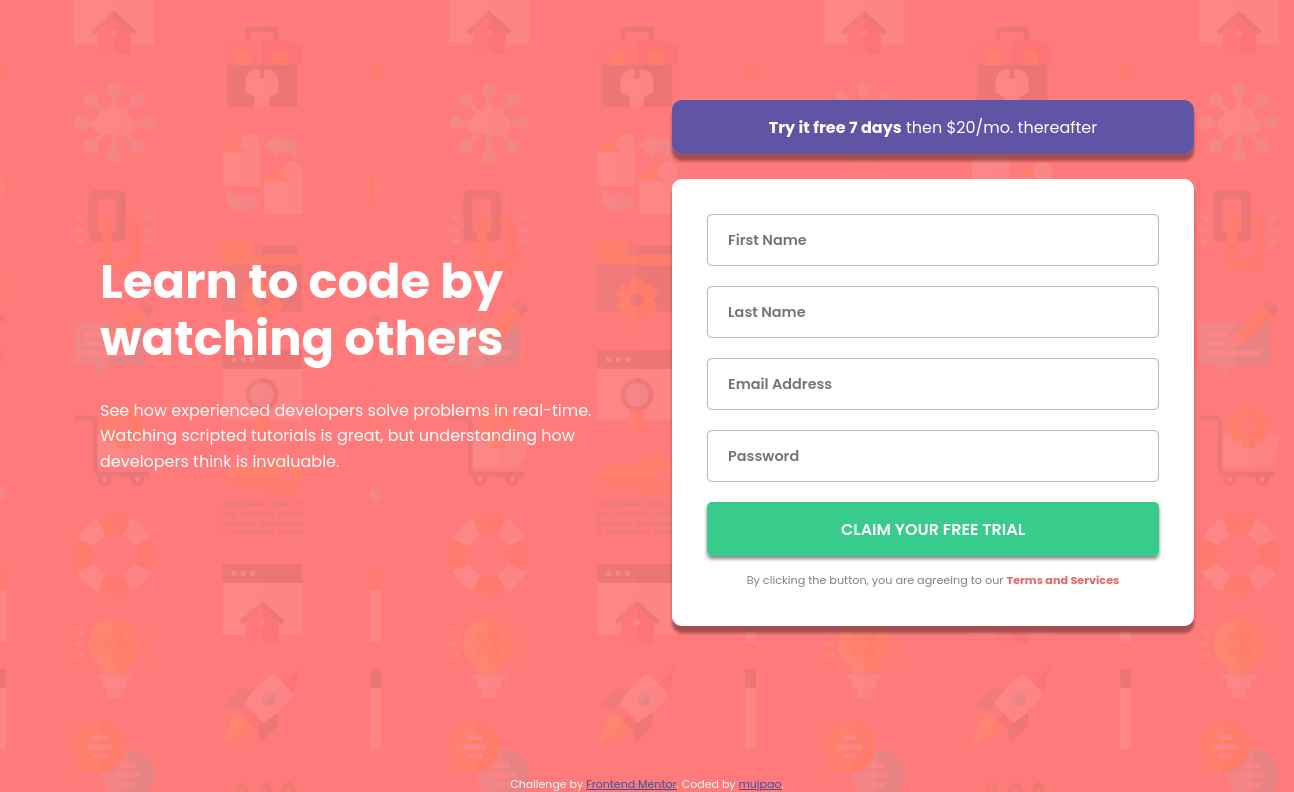
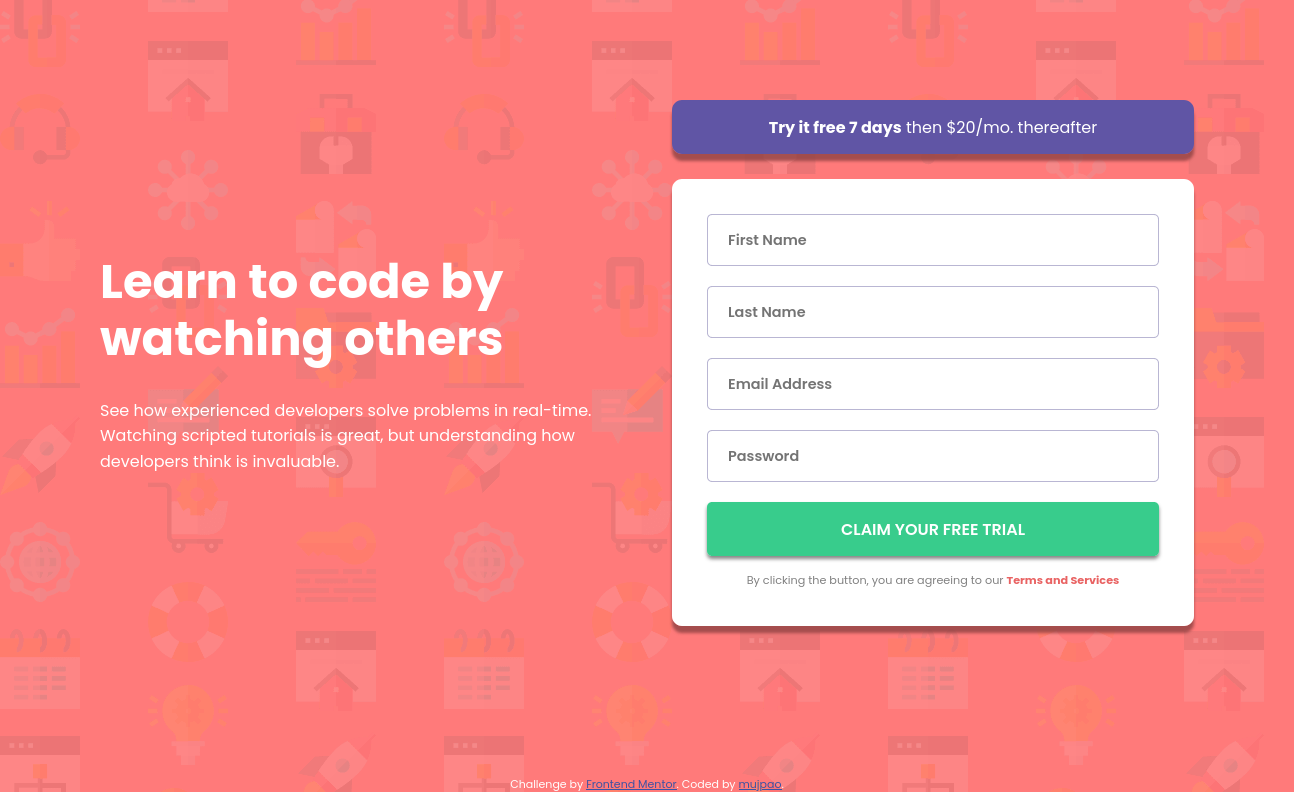
Change background image on desktop

diff --git a/css/styles.css b/css/styles.css
@@ -174,6 +174,10 @@ input {
 }
 
 @media (min-width: 1000px) {
+    body {
+        background-image: url("../images/bg-intro-desktop.png");
+    }
+
     .sign-up-container {
         flex-direction: row;
         margin: 100px 100px 150px;
